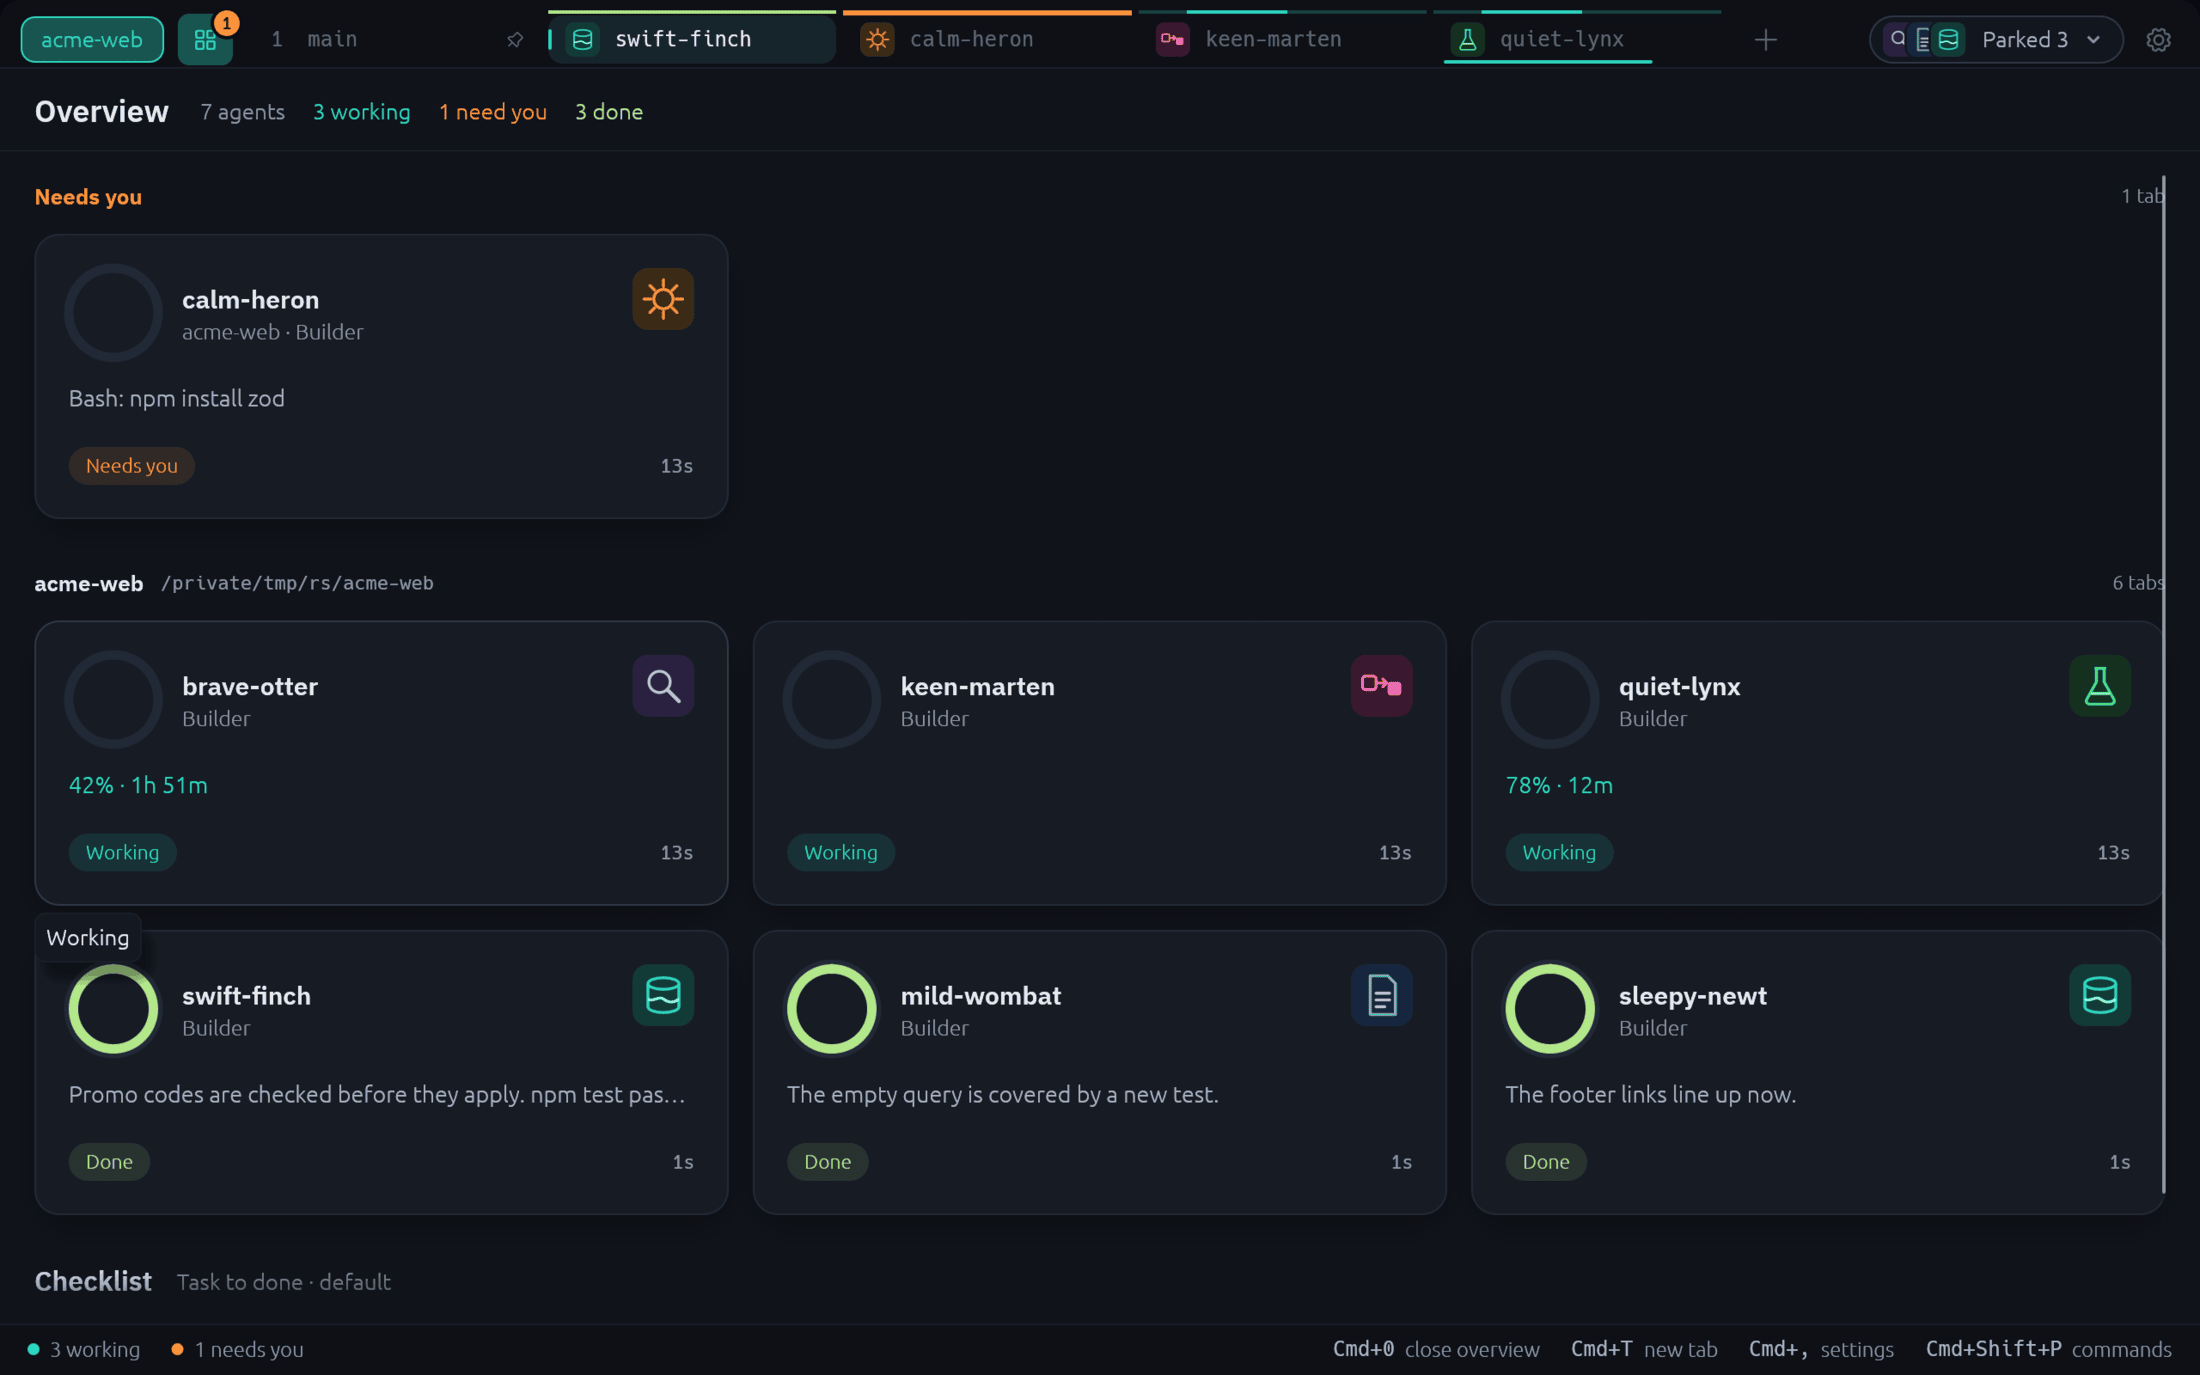
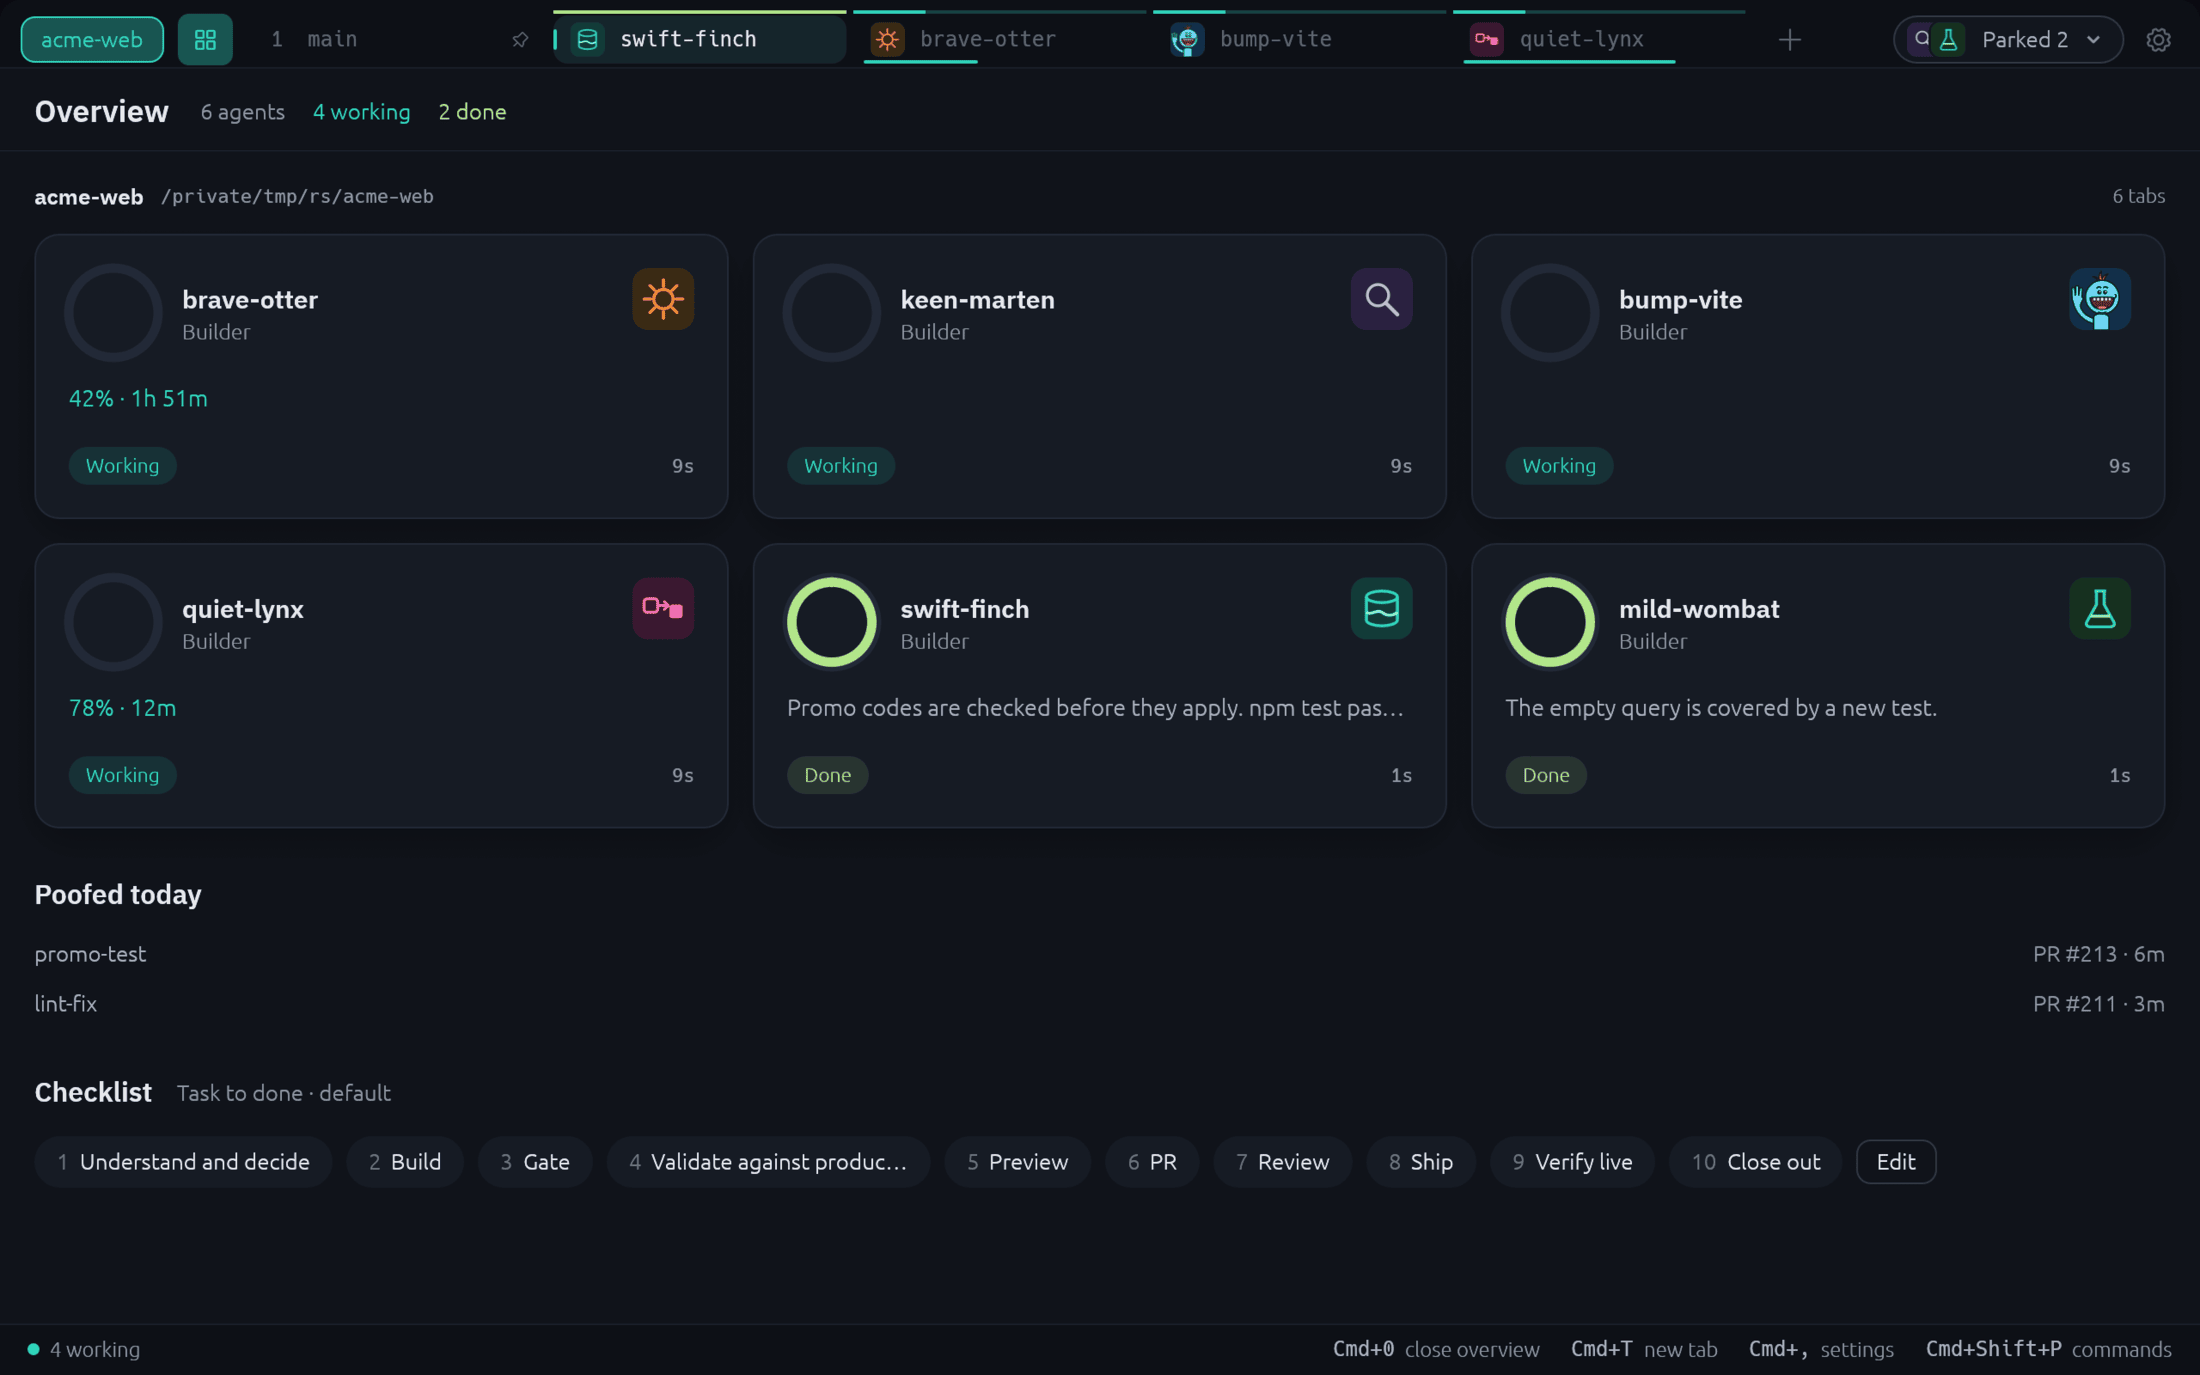
docs(site): retake the app screenshots with Meeseeks (PSNR 45.1 to 47.2 dB)
The new-tab form with its Agent, Meeseeks, Workflow and Shell control, the
hero with a Meeseeks tab in the strip, and the Overview with Meeseeks and a
Poofed today list, from a throwaway acme-web demo repo and home. Alt text
follows the new content.

Sizes: hero 188 kB to 185 kB, newtab 139 to 141, overview 99 to 91.

diff --git a/site/index.html b/site/index.html
@@ -63,7 +63,7 @@
   <div class="install"><span class="p">$</span><span class="txt">brew install hobo-ware/tap/tidewatch</span><button class="copy" type="button" data-copy="brew install hobo-ware/tap/tidewatch">Copy</button></div>
   <div class="ctas"><a href="#install">Install</a><a href="https://github.com/Hobo-Ware/tidewatch">Source on GitHub</a></div>
   <div class="window">
-    <img src="shot-hero.png" width="2200" height="1375" alt="Tidewatch with an agent's finished answer in the Reader on the left, and on the right the history card of its branch, three commits ahead of main: an uncommitted changes row and one commit opened with its changed files. Along the top, agent tabs with avatars, a progress bar on the tab with a running job and a Parked pill holding three more tabs, and a status bar along the bottom">
+    <img src="shot-hero.png" width="2200" height="1375" alt="Tidewatch with an agent's finished answer in the Reader on the left, and on the right the history card of its branch, three commits ahead of main: an uncommitted changes row and one commit opened with its changed files. Along the top, agent tabs with avatars (one of them a Meeseeks), a progress bar on the tab with a running job and a Parked pill holding four more tabs, and a status bar along the bottom">
   </div>
 </div></header>
 
@@ -116,7 +116,7 @@
       <p>Overview shows each tab and what it is doing, with the tabs that need you on top. A badge on the button counts them, so you can look away until one does.</p>
       <ul><li>Working, needs you, done or failed</li><li>The agent's Done, Needs you and Next lines on the row</li><li>Desktop notifications when an agent needs you</li></ul>
     </div>
-    <div class="shot"><img src="shot-overview.png" width="2200" height="1375" loading="lazy" alt="Tidewatch's Overview as cards: one agent that needs permission, three that are working (two with a job's percent and time left) and three that are done, with the avatar tabs, the Parked pill and the status bar around it"></div>
+    <div class="shot"><img src="shot-overview.png" width="2200" height="1375" loading="lazy" alt="Tidewatch's Overview as cards: four agents that are working (one a Meeseeks, two with a job's percent and time left) and two that are done, then a Poofed today list of Meeseeks that finished, with the avatar tabs, the Parked pill and the status bar around it"></div>
   </div>
 
   <div class="row flip">
@@ -134,7 +134,7 @@
       <p>A new tab is the form itself: an agent, a workflow or a plain shell. Pick a profile and its permission level, from read only up to a YOLO level that asks first, name the worktree and the branch it starts from, and write the first message. Start, and the agent begins with it.</p>
       <ul><li>Claude Code, Codex, Gemini CLI and Copilot CLI</li><li>A fresh worktree and branch for every tab</li><li>Tidewatch pushes for you, on approval</li></ul>
     </div>
-    <div class="shot"><img src="shot-newtab.png" width="2200" height="1375" loading="lazy" alt="A new tab as a form: agent profiles in a lane on the left, the five permission levels, the worktree name and base branch, and the first message, with the branch history on the right"></div>
+    <div class="shot"><img src="shot-newtab.png" width="2200" height="1375" loading="lazy" alt="A new tab as a form: a control to pick Agent, Meeseeks, Workflow or Shell, agent profiles in a lane on the left, the five permission levels, the worktree name and base branch, and the first message, with the branch history on the right"></div>
   </div>
 
   <div class="row flip">
